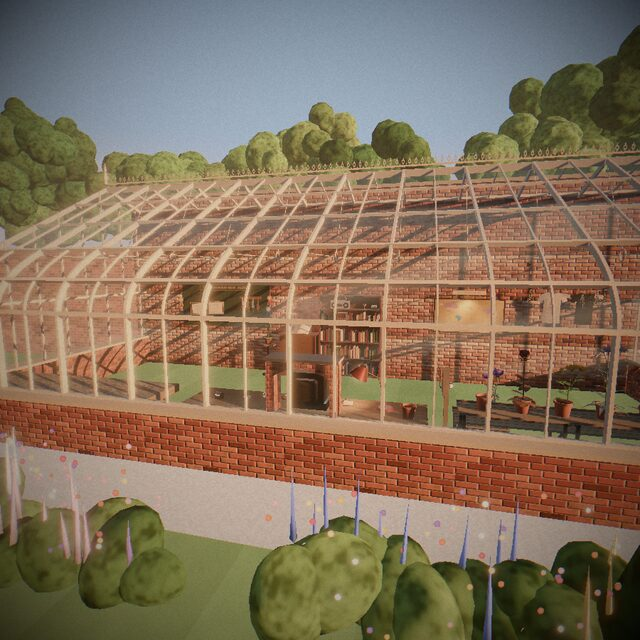
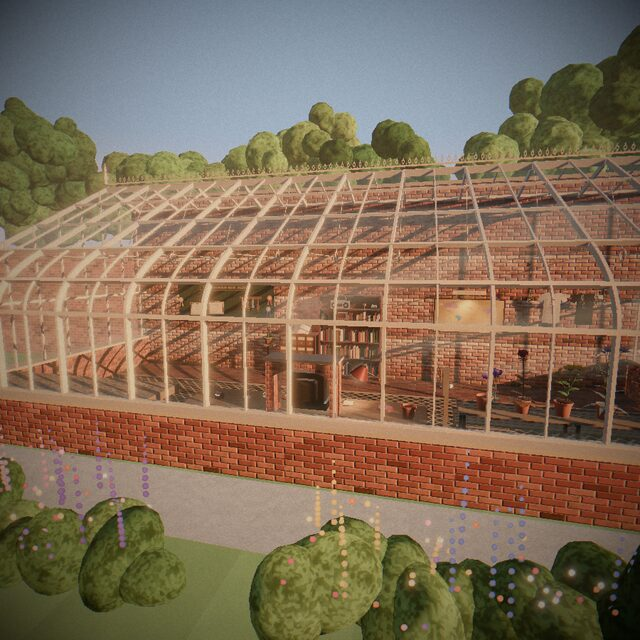
Greenhouse: darker gravel, leaves up close, a quick shower for pictures, shorter buttons under the lens, a new globe picture
Claude-Session: https://claude.ai/code/session_01BoF2Qvp8E46X75zTVoFos4

diff --git a/src/worlds/greenhouse/grounds.ts b/src/worlds/greenhouse/grounds.ts
@@ -132,7 +132,9 @@ const LAWN_FRAG = /* glsl */ `
     // The walk: gravel along the front, and round the end to the door.
     float walk = step(uWalk.x, p.y) * step(p.y, uWalk.y) * step(abs(p.x), uWalk.z);
     walk = max(walk, step(uWalk.w, p.x) * step(p.x, uWalk.w + 1.3) * step(uWalk.x, p.y) * step(p.y, 1.6));
-    vec3 gravel = mix(vec3(0.56, 0.48, 0.38), vec3(0.7, 0.62, 0.5), noise(p * 40.0));
+    // Gravel: buff, with a pebble's worth of light and dark in it.
+    float pebble = noise(p * 55.0) * 0.6 + noise(p * 13.0) * 0.4;
+    vec3 gravel = mix(vec3(0.3, 0.26, 0.2), vec3(0.46, 0.4, 0.31), pebble);
     vec3 albedo = mix(grass, gravel, walk);
     vec3 col = daylight(albedo, normalize(vNrm), vWorld);
     gl_FragColor = vec4(fade(col, vWorld), 1.0);
@@ -486,6 +488,10 @@ function foliageMaterial(u: DaylightUniforms) {
         vec3 v = normalize(toEye);
         float far = smoothstep(15.0, 60.0, length(toEye));
         float leaves = vn(vWorld * 9.0) * 0.55 + vn(vWorld * 23.0) * 0.45;
+        // Up close, single leaves: small crisp flecks, lit or in shade, gone to an average further off.
+        float near = 1.0 - smoothstep(3.0, 12.0, length(toEye));
+        float fleck = smoothstep(0.38, 0.62, vn(vWorld * 47.0 + leaves * 2.0));
+        leaves = mix(leaves, leaves * (0.7 + 0.6 * fleck), near);
         leaves = mix(leaves, 0.5, far * 0.7);
         vec3 bump = vec3(vn(vWorld * 4.0 + 1.7), vn(vWorld * 4.0 + 4.1), vn(vWorld * 4.0 + 8.3)) - 0.5;
         vec3 n = normalize(normalize(vNrm) + bump * 1.1);

diff --git a/src/worlds/greenhouse/kit.ts b/src/worlds/greenhouse/kit.ts
@@ -275,8 +275,8 @@ export const buildKit: KitModule['buildKit'] = ({ quality, scene, log }) => {
       return;
     }
     card(`Under the lens · “${gardenName(g)}”`, latinName(g), [{ list: traits(g) }, { note: parentage(p) }], [
-      ...(i < POTS ? [{ label: 'Share this flower', run: () => void share(i) }, { label: 'Water it', run: () => void waterPot(i) }] : []),
-      { label: 'Back to the staging', quiet: true, run: () => wiring?.goTo('staging') },
+      ...(i < POTS ? [{ label: 'Share it', run: () => void share(i) }, { label: 'Water it', run: () => void waterPot(i) }] : []),
+      { label: 'Back', quiet: true, run: () => wiring?.goTo('staging') },
     ]);
   };
   const startOverCard = () =>
@@ -767,8 +767,11 @@ export const buildKit: KitModule['buildKit'] = ({ quality, scene, log }) => {
       compost: (i: number) => compostPot(i),
       lens: (i: number) => closer(i),
       shareLink: (i: number) => (garden.pots[i] ? shareLink(location.origin, garden.pots[i]!.code) : null),
-      /** Make it rain (true), clear (false), or let the weather do as it likes (null). */
-      shower: (on: boolean | null) => (forced = on),
+      /** Make it rain (true), clear (false), or let the weather do as it likes (null); `now` skips the easing. */
+      shower: (on: boolean | null, now = false) => {
+        forced = on;
+        if (now && on !== null) rain = on ? 1 : 0;
+      },
       busy: () => busy || tools.busy() || bee.flying(),
       line: () => line,
       solid: (p: THREE.Vector3) => solid(p),
